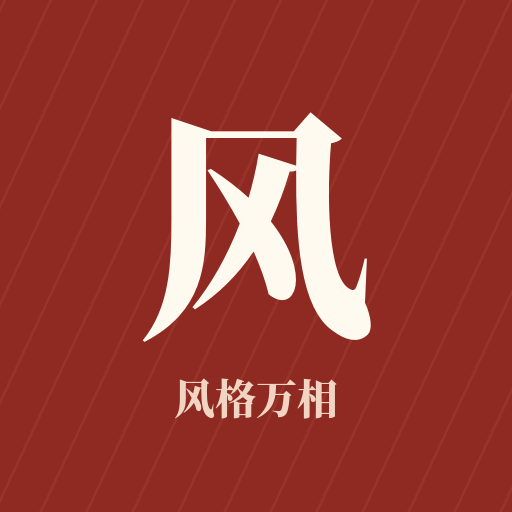
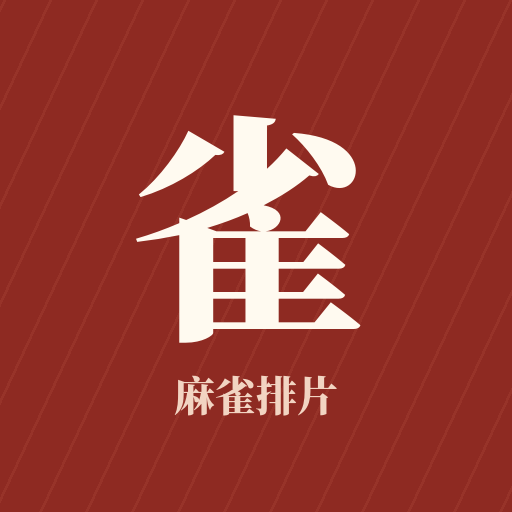
网站更名为麻雀映画&麻雀部落展映排片表，风格万相改为影展专题 (#6)
Claude-Session: https://claude.ai/code/session_01Jw57DzWJ1YLLYTgmvfAaBf

Changed region(s): [[0.2812, 0.2188, 0.75, 0.6875], [0.3438, 0.7188, 0.6562, 0.8125]]

diff --git a/index.html b/index.html
@@ -1,5 +1,5 @@
 <!doctype html><html lang="zh-CN"><head><meta charset=utf8><meta name=viewport content="width=device-width,initial-scale=1,viewport-fit=cover"><style>:root{color-scheme:light;box-sizing:border-box;padding-top:env(safe-area-inset-top,0px);padding-bottom:env(safe-area-inset-bottom,0px)}html{scroll-padding-top:env(safe-area-inset-top,0px)}body{margin:0;padding:0;font:14px -apple-system,BlinkMacSystemFont,sans-serif;background:#fff;color:#000}img{max-width:100%}[hidden]:not([hidden=until-found i]){display:none!important}</style>
-<title>风格万相影展</title>
+<title>麻雀映画&amp;麻雀部落展映排片表</title>
 <link rel="manifest" href="manifest.webmanifest">
 <link rel="icon" type="image/png" sizes="32x32" href="icons/favicon-32.png">
 <link rel="apple-touch-icon" href="icons/apple-touch-icon.png">
@@ -8,8 +8,8 @@
 <meta name="mobile-web-app-capable" content="yes">
 <meta name="apple-mobile-web-app-capable" content="yes">
 <meta name="apple-mobile-web-app-status-bar-style" content="default">
-<meta name="apple-mobile-web-app-title" content="风格万相">
-<meta name="description" content="风格万相中外经典影片展：影片资料、观影看点、导演介绍与展映排片。">
+<meta name="apple-mobile-web-app-title" content="麻雀排片">
+<meta name="description" content="麻雀映画 & 麻雀部落展映排片表：影展专题、艺术影院与院线放映的排片、片目与个人观影日程。">
 <link rel="preconnect" href="https://fonts.googleapis.com">
 <link rel="stylesheet" href="https://fonts.googleapis.com/css2?family=Noto+Serif+SC:wght@600;900&family=Noto+Sans+SC:wght@400;500;700&family=IBM+Plex+Mono:wght@400;500;600&display=swap">
 <style>
@@ -516,6 +516,39 @@ html.sheet-open,html.sheet-open body{overflow:hidden}
 .in-note{margin-top:12px;padding:14px;border-radius:12px;border:1px dashed var(--line)}
 .in-note b{font-size:14px}.in-note p{margin:4px 0 0;font-size:13px;color:var(--muted);line-height:1.6}
 .in-note.muted{border-style:solid;border-color:var(--line-soft)}
+
+/* ---- Sparrow schedule hub (claude/sparrow-schedule-hub) ---- */
+.brand-sparrow b{font-size:21px;letter-spacing:0;white-space:nowrap}
+.brand-sparrow b i{font-style:italic;font-weight:600;margin:0 .14em;color:var(--muted);font-family:var(--f-display)}
+.brand-sparrow small{letter-spacing:.08em}
+.prog-h{margin-top:4px}
+.prog-strip{display:grid;grid-template-columns:1fr;gap:10px;margin-bottom:14px}
+.prog-card{position:relative;display:grid;grid-template-columns:1fr;border-radius:14px;overflow:hidden;border:1px solid var(--line);background:var(--surface);text-align:left;min-width:0}
+.prog-card img{width:100%;max-width:100%;aspect-ratio:930/330;object-fit:cover;display:block}
+.pc-body{display:flex;flex-direction:column;gap:2px;padding:12px 14px;min-width:0}
+.pc-body small{font:500 10px var(--f-mono);letter-spacing:.1em;color:var(--accent)}
+.pc-body b{font:900 20px var(--f-display)}
+.pc-body span{font-size:12px;color:var(--muted)}
+.pc-go{position:absolute;right:12px;bottom:14px;font-size:12px;font-weight:600;color:var(--accent)}
+.prog-card:hover{border-color:var(--accent)}
+@media (min-width:900px){.prog-strip{grid-template-columns:repeat(auto-fill,minmax(360px,1fr))}}
+.prog-chips{margin-bottom:6px}
+.fd-prog{display:inline-flex;align-self:flex-start;font-size:11px;font-weight:600;padding:3px 9px;border-radius:99px;background:rgba(255,250,240,.92);color:#2b2117;margin-bottom:8px}
+.pg-cover{background:#1c1510;line-height:0}
+.pg-cover img{width:100%;max-width:100%;max-height:340px;object-fit:cover}
+.pg-head{padding:20px 0 4px}
+.pg-head small{font:500 10px var(--f-mono);letter-spacing:.2em;color:var(--accent)}
+.pg-head h1{font:900 36px/1.15 var(--f-display);margin:6px 0 4px}
+.pg-sub{margin:0;color:var(--muted);font-size:14px}
+.pg-blurb{font-size:15px;line-height:1.85;max-width:65ch;margin:0 0 16px}
+.pg-grid{display:grid;grid-template-columns:repeat(3,minmax(0,1fr));gap:14px 10px;margin-top:4px}
+.pg-film{display:flex;flex-direction:column;gap:4px;text-align:left;min-width:0}
+.pg-film img,.pg-ph{width:100%;max-width:100%;aspect-ratio:2/3;object-fit:cover;border-radius:6px;display:block;box-shadow:0 2px 8px rgba(0,0,0,.12)}
+.pg-ph{display:grid;place-items:center;color:#fffaf0;font:900 28px var(--f-display)}
+.pg-film b{font-size:13px;line-height:1.3;display:-webkit-box;-webkit-line-clamp:2;-webkit-box-orient:vertical;overflow:hidden}
+.pg-film small{font:11px var(--f-mono);color:var(--muted)}
+@media (min-width:640px){.pg-grid{grid-template-columns:repeat(4,minmax(0,1fr))}}
+@media (min-width:900px){.pg-grid{grid-template-columns:repeat(6,minmax(0,1fr))}.pg-head h1{font-size:48px}}
 </style>
 
 </head>
@@ -1427,6 +1460,11 @@ const FILMS = [
 const VENUES = [
   {id:"premiere", name:"百美汇影城", en:"PREMIERE", halls:[{id:"luxe", name:"LUXE4K激光巨幕厅"}]}
 ];
+/* 专题：影展、院线、艺术影院等。影片用 prog 字段归入专题，不写时默认风格万相 */
+const PROGRAMMES = [
+  {id:"style-kaleidoscope", name:"风格万相", sub:"中外经典影片展", en:"STYLE KALEIDOSCOPE", kind:"影展专题", period:"2026.10 – 2027.01", cover:"programmes/style-kaleidoscope.jpg",
+   blurb:"从伯格曼的公路回忆到塔可夫斯基的末日祈祷，从费穆的城墙到徐克的江湖，十七部作品横跨 1947 至 2025 年，排在同一块银幕上，恰好是一份关于“风格”的地图。"}
+];
 /* 排片：日期, 时间, 影片 id, 影院 id, 影厅 id（后两项不写时默认百美汇 LUXE4K激光巨幕厅） */
 const SHOWS = [
 ["10/30","19:30","wild-strawberries"],["10/31","12:40","dogville"],["10/31","16:00","sirat"],
@@ -1446,6 +1484,14 @@ let vfilt = "all";
 const editionOf = f => f.version||"";
 const editionHTML = f => f.version ? ` <small class="edition">${esc(f.version)}</small>` : "";
 const F = Object.fromEntries(FILMS.map(f=>[f.id,f]));
+const PG = Object.fromEntries(PROGRAMMES.map(p=>[p.id,p]));
+const progOf = f => PG[f.prog||"style-kaleidoscope"];
+const progShows = pid => SH.filter(x=>progOf(F[x.id]).id===pid);
+let pfilt = "all";
+const inProg = x => pfilt==="all" || progOf(F[x.id]).id===pfilt;
+const progChips = () => `<div class="filters prog-chips">${[["all","全部"],...PROGRAMMES.map(p=>[p.id,p.name])].map(([k,n])=>`<button class="fchip" data-pf="${k}" aria-pressed="${pfilt===k}">${esc(n)}</button>`).join("")}</div>`;
+const dateSpan = list => { if(!list.length) return ""; const ds=[...new Set(list.map(x=>x.d))]; return ds[0]+" – "+ds[ds.length-1]; };
+function progCardsHTML(){ return `<div class="prog-strip">${PROGRAMMES.map(p=>{const n=progShows(p.id).length,fn=new Set(progShows(p.id).map(x=>x.id)).size;return `<button class="prog-card" data-prog="${p.id}">${p.cover?`<img src="${p.cover}" alt="">`:""}<span class="pc-body"><small>${esc(p.kind)} · ${esc(p.period)}</small><b>${esc(p.name)}</b><span>${esc(p.sub)} · ${fn} 部 / ${n} 场</span></span><span class="pc-go">专题 ›</span></button>`}).join("")}</div>`; }
 const HASP = new Set(["bullets-over-broadway","spring-in-a-small-town","long-live-the-missus","leningrad-cowboys","where-is-the-friends-house","mon-oncle","sirat","green-green-grass","a-better-tomorrow","the-sacrifice","swordsman","turin-horse","wild-strawberries","blood-simple","dogville","faces-places","swordsman-2"]);
 const pst = id => HASP.has(id) ? "posters/"+id+".jpg" : null;
 const slateHTML = f => pst(f.id) ? `<span class="slate has" style="background:${REG[f.reg].c}"><img src="${pst(f.id)}" alt="${esc(f.cn)} 海报" loading="lazy"></span>` : `<span class="slate" style="background:${REG[f.reg].c}"><b>${esc(f.cn[0])}</b><span>${f.y}</span></span>`;
@@ -1470,7 +1516,7 @@ const days = [...new Set(SH.map(s=>s.d))];
 const chevron = '<svg class="chev" viewBox="0 0 24 24" fill="none" stroke="currentColor" stroke-width="2"><path d="m9 6 6 6-6 6"/></svg>';
 const topEl = document.getElementById("topbar"), main = document.getElementById("main");
 
-const brandBar = () => `<div class="row"><div class="brand"><b>风格万相</b><small>STYLE KALEIDOSCOPE · 中外经典影片展</small></div><span class="sp"></span><span class="credit"><small>由麻雀映画制作</small></span></div>`;
+const brandBar = () => `<div class="row"><div class="brand brand-sparrow"><b>麻雀映画<i>&amp;</i>麻雀部落</b><small>展映排片表 · SPARROW SCREENINGS</small></div></div>`;
 
 function ganttHTML(k, rowH, labW, compact, list){
   const S = toMin("12:00"), E = toMin("22:30"), W = Math.round((E-S)*k);
@@ -1504,7 +1550,7 @@ const SPAN = toMin("22:30")-toMin("12:00");
 function fitK(labW){ const app=document.querySelector(".app"); const w=(app?app.clientWidth:window.innerWidth) - 2*Math.max(16,0) - labW - 4; return w/SPAN; }
 
 function schedule(){
-  const list = SH.filter(x=>vfilt==="all"||x.v===vfilt);
+  const list = SH.filter(x=>(vfilt==="all"||x.v===vfilt)&&inProg(x));
   const kFit = fitK(64);
   const wide = kFit >= 1.5;
   const k = wide ? kFit : fitK(102);
@@ -1525,7 +1571,9 @@ function schedule(){
       <div class="halls">${v.halls.map(h=>{const hn=SH.filter(x=>x.v===v.id&&x.h===h.id).length;return `<div class="hall"><b>${esc(h.name)}</b><small>${esc(h.note||"")}${h.note?" · ":""}${hn} 场</small></div>`}).join("")}</div></div>`;
   }).join("");
   main.innerHTML = `<section class="view gut">
-    <h2 class="sec">排片表</h2><p class="sub">2026.10.30 – 11.08 · ${wide?"点击色块看影片":"点击排片图进入详细排片"}</p>
+    <h2 class="sec">展映排片表</h2><p class="sub">${dateSpan(list)} · ${list.length} 场 · ${wide?"点击色块看影片":"点击排片图进入详细排片"}</p>
+    <h3 class="blockh prog-h">专题 <small>PROGRAMMES</small></h3>${progCardsHTML()}
+    ${progChips()}
     ${vchips}
     <div class="legend">${Object.values(REG).map(r=>`<span><i style="background:${r.c}"></i>${r.n}</span>`).join("")}</div>
     ${gantt}
@@ -1536,7 +1584,7 @@ function schedule(){
 }
 
 function ganttFull(){
-  const list = SH.filter(x=>vfilt==="all"||x.v===vfilt);
+  const list = SH.filter(x=>(vfilt==="all"||x.v===vfilt)&&inProg(x));
   const k = Math.max(2, fitK(64));
   topEl.innerHTML = `<div class="row"><button class="back" data-back><svg viewBox="0 0 24 24" fill="none" stroke="currentColor" stroke-width="2.2"><path d="m15 6-6 6 6 6"/></svg>返回</button><span class="sp"></span><span class="pill">详细排片</span></div>`;
   main.innerHTML = `<section class="view gut full-g">
@@ -1555,9 +1603,9 @@ function flashIn(g){
 
 let filt="all";
 function films(){
-  const list = FILMS.filter(f=>filt==="all"||f.reg===filt);
-  main.innerHTML = `<section class="view gut"><h2 class="sec">片目</h2><p class="sub">${FILMS.length} 部影片 · 右侧为豆瓣评分</p>
-    <div class="filters">${[["all","全部"],...Object.entries(REG).map(([k,v])=>[k,v.n])].map(([k,n])=>`<button class="fchip" data-filt="${k}" aria-pressed="${filt===k}">${n}</button>`).join("")}</div>
+  const list = FILMS.filter(f=>(filt==="all"||f.reg===filt)&&(pfilt==="all"||progOf(f).id===pfilt));
+  main.innerHTML = `<section class="view gut"><h2 class="sec">片目</h2><p class="sub">${list.length} 部影片 · 右侧为豆瓣评分</p>
+    ${progChips()}<div class="filters">${[["all","全部"],...Object.entries(REG).map(([k,v])=>[k,v.n])].map(([k,n])=>`<button class="fchip" data-filt="${k}" aria-pressed="${filt===k}">${n}</button>`).join("")}</div>
     <div class="flist">${list.map(f=>`<button class="fcard" data-film="${f.id}">
       ${slateHTML(f)}
       <span class="info"><b>${esc(f.cn)}${editionHTML(f)}</b><span class="o">${esc(f.en||f.o)}</span><span class="d">${esc(f.dir)} · ${esc(f.c)}</span></span>
@@ -1581,6 +1629,7 @@ function detail(id){
     <div class="fd-hin gut">
       ${P?`<img class="fd-poster" src="${P}" alt="${esc(f.cn)} 海报">`:`<div class="fd-poster fd-ph"><b>${esc(f.cn[0])}</b></div>`}
       <div class="fd-title">
+        <button class="fd-prog" data-prog="${progOf(f).id}">${esc(progOf(f).kind)} · ${esc(progOf(f).name)} ›</button>
         <div class="fd-eyebrow"><span class="fd-reg">${REG[f.reg].n}</span>${f.y} · ${esc(f.c)}</div>
         <h1>${esc(f.cn)}</h1>
         <div class="fd-orig">${esc(f.en||f.o)}</div>${f.o&&f.o!==f.cn&&f.o!==(f.en||f.o)?`<div class="fd-native">原名 ${esc(f.o)}</div>`:""}
@@ -1611,6 +1660,21 @@ document.addEventListener("click",e=>{
   const x=e.target.closest("[data-expand]");if(x){const b=x.previousElementSibling;b.classList.toggle("clamp");x.textContent=b.classList.contains("clamp")?"展开全文":"收起";}
 });
 
+function progPage(pid){
+  const p=PG[pid]; if(!p){ go("schedule"); return; }
+  const shows=progShows(pid), fids=[...new Set(shows.map(x=>x.id))], films=FILMS.filter(f=>progOf(f).id===pid);
+  topEl.innerHTML = `<div class="row"><button class="back" data-back><svg viewBox="0 0 24 24" fill="none" stroke="currentColor" stroke-width="2.2"><path d="m15 6-6 6 6 6"/></svg>返回</button><span class="sp"></span><span class="pill">${esc(p.kind)}</span></div>`;
+  main.innerHTML = `<article class="pg">
+    ${p.cover?`<div class="pg-cover"><img src="${p.cover}" alt="${esc(p.name)} 主视觉"></div>`:""}
+    <div class="gut">
+      <header class="pg-head"><small>${esc(p.en||"")}</small><h1>${esc(p.name)}</h1><p class="pg-sub">${esc(p.sub)} · ${esc(p.period)}</p></header>
+      <div class="pstats pg-stats"><div><b>${films.length}</b><small>部影片</small></div><div><b>${shows.length}</b><small>场放映</small></div><div><b>${new Set(shows.map(x=>x.d)).size}</b><small>个放映日</small></div><div><b>${new Set(shows.map(x=>x.v+x.h)).size}</b><small>个影厅</small></div></div>
+      ${p.blurb?`<p class="pg-blurb">${esc(p.blurb)}</p>`:""}
+      <div class="plan-toolbar"><button class="primary-button" data-prog-sched="${pid}">查看专题排片</button><button class="secondary-button" data-prog-films="${pid}">专题片目</button></div>
+      <h3 class="blockh">放映影片 <small>${films.length} FILMS</small></h3>
+      <div class="pg-grid">${films.map(f=>{const first=SH.find(x=>x.id===f.id);return `<button class="pg-film" data-film="${f.id}">${pst(f.id)?`<img src="${pst(f.id)}" alt="" loading="lazy">`:`<span class="pg-ph" style="background:${REG[f.reg].c}">${esc(f.cn[0])}</span>`}<b>${esc(f.cn)}</b><small>${f.version?esc(f.version)+" · ":""}${first?first.d+" "+first.t:""}</small></button>`}).join("")}</div>
+    </div></article>`;
+}
 function about(){
   main.innerHTML = `<section class="view gut about"><h2 class="sec">关于影展</h2>
     <p class="sub">风格万相 · 中外经典影片展</p>
@@ -1675,7 +1739,7 @@ function installPage(){
       ["globe","用 Safari 打开本页","微信里请先点右上角「···」→「在默认浏览器中打开」"],
       ["share","点底部工具栏的「分享」按钮","方框加向上箭头的图标；iPad 在右上角"],
       ["plus","在菜单中选「添加到主屏幕」","没看到就向下滑，或点「编辑操作」把它加进列表"],
-      ["phone","点右上角「添加」","桌面会出现红色的「风格万相」图标"]]);
+      ["phone","点右上角「添加」","桌面会出现红色的「麻雀排片」图标"]]);
   }else if(tab==="android"){
     body=(installPrompt?'<button class="primary-button in-cta" data-install>一键添加到手机桌面</button><p class="in-or">或者按下面的步骤手动添加</p>':'')+stepsHTML([
       ["globe","用 Chrome 或手机自带浏览器打开本页","微信里请先点右上角「···」→「在浏览器打开」"],
@@ -1691,8 +1755,8 @@ function installPage(){
       '<div class="in-note muted"><b>关于小程序</b><p>网页不能直接加入微信的小程序列表。用「浮窗」是在微信里最接近小程序的打开方式。</p></div>';
   }
   main.innerHTML='<section class="view gut in-view"><div class="page-heading"><div><small>ADD TO HOME SCREEN</small><h2 class="sec">添加到手机</h2></div><button class="text-button" data-tab="my">返回我的</button></div>'+
-  (ENV.standalone?'<div class="in-done"><b>✓ 已经在 App 模式中打开</b><p>以后从桌面的「风格万相」图标进入即可。</p></div>':
-  '<div class="in-hero"><img src="icons/icon-192.png" alt="" width="64" height="64"><div><b>把「风格万相」放到手机桌面</b><p>全屏打开，没有地址栏，看排片就像用 App；个人排片也会一直保存在这台手机上。</p></div></div>')+
+  (ENV.standalone?'<div class="in-done"><b>✓ 已经在 App 模式中打开</b><p>以后从桌面的「麻雀排片」图标进入即可。</p></div>':
+  '<div class="in-hero"><img src="icons/icon-192.png" alt="" width="64" height="64"><div><b>把「麻雀排片」放到手机桌面</b><p>全屏打开，没有地址栏，看排片就像用 App；个人排片也会一直保存在这台手机上。</p></div></div>')+
   '<div class="in-tabs" role="tablist">'+T.map(([k,n])=>'<button role="tab" aria-selected="'+(k===tab)+'" data-itab="'+k+'">'+n+((k==="wechat"&&ENV.wechat)||(k==="ios"&&ENV.ios&&!ENV.wechat)||(k==="android"&&ENV.android&&!ENV.wechat)?'<i>当前</i>':'')+'</button>').join("")+'</div>'+
   '<div class="in-panel">'+body+'</div><p class="local-note">添加到桌面后，排片保存在桌面版自己的存储里，可能和浏览器里的不互通。需要搬过去时，用「导出与分享」里的链接或二维码导入。</p></section>';
 }
@@ -1703,7 +1767,7 @@ document.addEventListener("click",async e=>{
 function myPage(){const list=selectedRows(),st=planStats(list),next=list[0];
   main.innerHTML='<section class="view gut"><div class="my-hero"><small>MY FESTIVAL</small><h2>我的影展</h2><p>把想看的电影排进自己的日程，再分享给一起看的人。</p>'+statsHTML(st)+(next?'<button class="next-up" data-film="'+next.id+'"><span class="nu-label">第一场</span>'+thumbHTML(F[next.id])+'<span class="nu-body"><b>'+esc(F[next.id].cn)+'</b><small>'+next.d+' '+wk(next.d)+' · '+next.t+' · '+esc(placeOf(next))+'</small></span></button>':'')+'</div>'+
   '<div class="my-menu"><button class="my-entry" data-tab="plan"><span class="me-ic"><svg viewBox="0 0 24 24" fill="none" stroke="currentColor" stroke-width="1.8"><rect x="3" y="5" width="18" height="15" rx="2"/><path d="M3 10h18M8 3v4M16 3v4"/></svg></span><span><b>个人排片</b><small>按天查看日程 · 自动检查时间冲突</small></span><span class="me-go">›</span></button><button class="my-entry" data-tab="export"><span class="me-ic"><svg viewBox="0 0 24 24" fill="none" stroke="currentColor" stroke-width="1.8"><rect x="4" y="4" width="6" height="6"/><rect x="14" y="4" width="6" height="6"/><rect x="4" y="14" width="6" height="6"/><path d="M14 14h2v2h-2zM18 18h2v2h-2zM14 18h2M18 14h2"/></svg></span><span><b>导出与分享</b><small>带二维码的排片长图 · 分享链接 · 日历 · PDF</small></span><span class="me-go">›</span></button><button class="my-entry" data-tab="install"><span class="me-ic">'+IIC.phone+'</span><span><b>添加到手机</b><small>'+(ENV.standalone?'已在 App 模式中打开':'放到桌面像 App 一样看 · 微信里用浮窗')+'</small></span><span class="me-go">›</span></button></div>'+
-  '<p class="local-note">排片保存在当前浏览器。换设备时，用分享链接或二维码带走日程。</p><details class="about-fold"><summary>关于风格万相</summary><p>中外经典影片展 · 2026.10—2027.01</p><p>由麻雀映画制作。当前场次、影片与影厅以排片页面为准。</p></details></section>';}
+  '<p class="local-note">排片保存在当前浏览器。换设备时，用分享链接或二维码带走日程。</p><details class="about-fold"><summary>关于麻雀映画 &amp; 麻雀部落</summary><p>麻雀映画与麻雀部落的展映排片表，汇集影展专题、艺术影院与院线放映场次。</p><p>当前专题：风格万相 · 中外经典影片展（2026.10—2027.01）。场次、影片与影厅以排片页面为准。</p></details></section>';}
 function planPage(){const list=selectedRows(),st=planStats(list);
   main.innerHTML='<section class="view gut"><div class="page-heading"><div><small>MY PROGRAMME</small><h2 class="sec">个人排片</h2></div><button class="text-button" data-tab="my">返回我的</button></div>'+
   (list.length?statsHTML(st)+'<div class="plan-toolbar"><button class="primary-button" data-tab="export">导出与分享</button><button class="secondary-button" data-tab="schedule">继续选片</button><button class="text-button" data-action="clear-plan">清空排片</button></div>'+(st.clash?'<div class="conflict" role="status"><b>有 '+st.clash+' 组场次时间重叠</b><p>重叠处已在日程中标红，移出其中一场即可解决。</p></div>':'')+'<div class="plan-days">'+planRowsHTML(list,true)+'</div>'
@@ -1725,7 +1789,7 @@ function exportPage(shared){let list;
   (isShared?'<div class="shared-banner"><b>'+st.n+' 场电影 · '+st.days+' 天</b><p>这是一份别人分享给你的观影日程。加入后会和你自己的排片合并。</p><button class="primary-button" data-action="import-plan">全部加入我的排片</button></div>':'')+
   '<div class="share-panel">'+(qr?'<div class="qr-box">'+qr+'</div>':'')+'<div class="share-body"><b>扫码打开这份排片</b><small>朋友用手机扫码或点开链接即可查看，无需登录，可一键加入自己的排片。</small><div class="link-row"><input id="share-url" readonly value="'+esc(shareURL(list))+'" aria-label="分享链接"><button class="secondary-button" data-action="copy-link">复制链接</button></div>'+(canShare?'<button class="text-button share-sys" data-action="system-share">'+IC.share+' 通过手机分享…</button>':'')+'</div></div>'+
   '<div class="export-grid">'+tile('png',IC.img,'排片长图','含海报与二维码 · PNG','main')+tile('calendar',IC.cal,'导入日历','.ics · 手机/电脑日历')+tile('print',IC.pdf,'打印 / PDF','A4 排版')+'</div>'+
-  '<h3 class="blockh">预览 <small>PREVIEW</small></h3><div class="share-paper"><div class="paper-band"><div><b>风格万相</b><span>STYLE KALEIDOSCOPE · 中外经典影片展</span></div><em>'+(isShared?'观影日程':'我的观影日程')+'</em></div><div class="paper-stats"><span><b>'+st.n+'</b>场</span><span><b>'+st.days+'</b>天</span><span><b>'+st.hm+'</b>银幕时长</span></div><div class="plan-days">'+planRowsHTML(list,false)+'</div><footer>'+(qr?'<div class="paper-qr">'+qr+'</div>':'')+'<div><b>扫码查看并加入这份排片</b><span>中外经典影片展 · 2026.10—2027.01</span><span>由麻雀映画制作</span></div></footer></div>'+
+  '<h3 class="blockh">预览 <small>PREVIEW</small></h3><div class="share-paper"><div class="paper-band"><div><b>麻雀映画 &amp; 麻雀部落</b><span>展映排片表 · SPARROW SCREENINGS</span></div><em>'+(isShared?'观影日程':'我的观影日程')+'</em></div><div class="paper-stats"><span><b>'+st.n+'</b>场</span><span><b>'+st.days+'</b>天</span><span><b>'+st.hm+'</b>银幕时长</span></div><div class="plan-days">'+planRowsHTML(list,false)+'</div><footer>'+(qr?'<div class="paper-qr">'+qr+'</div>':'')+'<div><b>扫码查看并加入这份排片</b><span>中外经典影片展 · 2026.10—2027.01</span><span>由麻雀映画制作</span></div></footer></div>'+
   '<p class="local-note">分享链接与二维码保存的是此刻的场次选择，之后修改个人排片不会改变已发出的内容。</p></section>';}
 function downloadBlob(blob,filename){const url=URL.createObjectURL(blob),a=document.createElement('a');a.href=url;a.download=filename;document.body.appendChild(a);a.click();a.remove();setTimeout(()=>URL.revokeObjectURL(url),60000);}
 function wrapLines(ctx,text,maxWidth){const out=[];let line='';for(const ch of text){if(ctx.measureText(line+ch).width>maxWidth&&line){out.push(line);line=ch;}else line+=ch;}if(line)out.push(line);return out;}
@@ -1734,7 +1798,7 @@ function loadImg(src){return new Promise(r=>{if(!src)return r(null);const im=new
 function rr(c,x,y,w,h,r){c.beginPath();c.moveTo(x+r,y);c.arcTo(x+w,y,x+w,y+h,r);c.arcTo(x+w,y+h,x,y+h,r);c.arcTo(x,y+h,x,y,r);c.arcTo(x,y,x+w,y,r);c.closePath();}
 let pngBusy=false;
 async function exportPNG(){const list=currentExport;if(!list.length||pngBusy)return;pngBusy=true;toast('正在生成排片长图…');
-  try{try{await Promise.all(['900 64px "Noto Serif SC"','700 30px "Noto Sans SC"','500 24px "IBM Plex Mono"'].map(f=>document.fonts.load(f,'风格万相0123')));}catch(e){}
+  try{try{await Promise.all(['900 64px "Noto Serif SC"','700 30px "Noto Sans SC"','500 24px "IBM Plex Mono"'].map(f=>document.fonts.load(f,'麻雀映画部落排片0123')));}catch(e){}
   const SERIF='"Noto Serif SC","Songti SC",serif',SANS='"Noto Sans SC","PingFang SC","Microsoft YaHei",sans-serif',MONO='"IBM Plex Mono",Menlo,monospace';
   const W=1080,P=64,ROW=196,GAP=52,DAYH=104,HEAD=360,STATS=150,FOOT=420;
   const groups=byDay(list),imgs={};await Promise.all([...new Set(list.map(s=>s.id))].map(async id=>{imgs[id]=await loadImg(pst(id));}));
@@ -1743,8 +1807,8 @@ async function exportPNG(){const list=currentExport;if(!list.length||pngBusy)ret
   c.fillStyle='#efe6d4';c.fillRect(0,0,W,H);
   // header band
   c.fillStyle='#8e2a22';c.fillRect(0,0,W,HEAD);c.fillStyle='rgba(255,255,255,.06)';for(let x=-HEAD;x<W;x+=46){c.beginPath();c.moveTo(x,HEAD);c.lineTo(x+HEAD*.47,0);c.lineTo(x+HEAD*.47+2,0);c.lineTo(x+2,HEAD);c.fill();}
-  c.fillStyle='#fffaf0';c.font='italic 900 104px '+SERIF;c.fillText('风格万相',P,150);
-  c.font='500 22px '+MONO;c.globalAlpha=.85;c.fillText('STYLE KALEIDOSCOPE · 中外经典影片展 2026.10—2027.01',P,200);c.globalAlpha=1;
+  c.fillStyle='#fffaf0';c.font='italic 900 76px '+SERIF;c.fillText('麻雀映画 & 麻雀部落',P,140);
+  c.font='500 22px '+MONO;c.globalAlpha=.85;c.fillText('展映排片表 · SPARROW SCREENINGS',P,196);c.globalAlpha=1;
   c.fillStyle='#fffaf0';c.fillRect(P,240,56,3);c.font='700 46px '+SANS;c.fillText(location.hash.startsWith('#share=')?'观影日程':'我的观影日程',P,310);
   // stats
   const st=planStats(list);let sx=P;[[st.n,'场放映'],[st.days,'天行程'],[st.hm,'银幕时长']].forEach(([v,l])=>{c.fillStyle='#2b2117';c.font='600 56px '+MONO;c.fillText(String(v),sx,HEAD+92);const w=c.measureText(String(v)).width;c.fillStyle='#7a6a55';c.font='400 24px '+SANS;c.fillText(l,sx+w+10,HEAD+92);sx+=Math.max(250,w+150);});
@@ -1773,10 +1837,10 @@ async function exportPNG(){const list=currentExport;if(!list.length||pngBusy)ret
   const m=qrMatrix(shareURLShort(list)),qs=264,qx=P+36,qy=fy+36;
   if(m){c.fillStyle='#fff';rr(c,qx,qy,qs,qs,10);c.fill();const n=m.length,cell=(qs-24)/n;c.fillStyle='#1d1712';for(let r=0;r<n;r++)for(let k=0;k<n;k++)if(m[r][k])c.fillRect(Math.floor(qx+12+k*cell),Math.floor(qy+12+r*cell),Math.ceil(cell),Math.ceil(cell));}
   const fx=m?qx+qs+40:P+36;c.fillStyle='#fffaf0';c.font='700 38px '+SANS;c.fillText('扫码查看这份排片',fx,fy+100);c.font='400 24px '+SANS;c.globalAlpha=.8;wrapCanvas(c,'打开后可一键加入你自己的排片',fx,fy+150,W-P-36-fx,34);c.globalAlpha=.6;c.font='400 20px '+MONO;c.fillText(location.host+location.pathname,fx,fy+226);c.globalAlpha=1;
-  c.fillStyle='#e0b9a6';c.font='italic 900 30px '+SERIF;c.fillText('风格万相',fx,fy+280);c.fillStyle='#fffaf0';c.globalAlpha=.7;c.font='400 20px '+SANS;c.fillText('由麻雀映画制作',fx+c.measureText('风格万相').width+80,fy+278);c.globalAlpha=1;
+  c.fillStyle='#e0b9a6';c.font='italic 900 30px '+SERIF;c.fillText('麻雀映画 & 麻雀部落',fx,fy+280);c.fillStyle='#fffaf0';c.globalAlpha=.7;c.font='400 20px '+SANS;c.fillText('展映排片表',fx+c.measureText('麻雀映画 & 麻雀部落').width+70,fy+278);c.globalAlpha=1;
   const blob=await new Promise(r=>cv.toBlob(r,'image/png'));if(!blob){toast('图片生成失败，请使用打印导出');return;}
   showImageSheet(blob);}finally{pngBusy=false;}}
-function showImageSheet(blob){const url=URL.createObjectURL(blob),file=new File([blob],'风格万相_我的排片.png',{type:'image/png'});const canFile=!!(navigator.canShare&&navigator.canShare({files:[file]}));
+function showImageSheet(blob){const url=URL.createObjectURL(blob),file=new File([blob],'麻雀排片_我的观影日程.png',{type:'image/png'});const canFile=!!(navigator.canShare&&navigator.canShare({files:[file]}));
   let el=document.getElementById('img-sheet');if(el)el.remove();el=document.createElement('div');el.id='img-sheet';el.className='img-sheet';el.setAttribute('role','dialog');el.setAttribute('aria-modal','true');el.setAttribute('aria-label','排片长图');
   el.innerHTML='<div class="is-panel"><div class="is-grab" aria-hidden="true"><i></i></div><div class="is-head"><b>排片长图已生成</b><button class="is-close" aria-label="关闭"><svg viewBox="0 0 24 24" fill="none" stroke="currentColor" stroke-width="2.4"><path d="M6 6l12 12M18 6 6 18"/></svg><span>关闭</span></button></div><div class="is-img"><img src="'+url+'" alt="排片长图预览"></div><p class="is-tip">手机上长按图片可保存到相册 · 下滑或点「关闭」退出</p><div class="is-actions">'+(canFile?'<button class="primary-button" data-is="share">分享图片</button>':'')+'<button class="'+(canFile?'secondary':'primary')+'-button" data-is="save">保存图片</button></div></div>';
   document.body.appendChild(el);document.documentElement.classList.add('sheet-open');
@@ -1785,23 +1849,24 @@ function showImageSheet(blob){const url=URL.createObjectURL(blob),file=new File(
   const onKey=e=>{if(e.key==='Escape')close();};const onPop=()=>close(true);
   document.addEventListener('keydown',onKey);try{history.pushState({sheet:1},'');window.addEventListener('popstate',onPop);}catch(e){}
   el.querySelector('.is-close').focus({preventScroll:true});
-  el.addEventListener('click',async e=>{if(e.target===el||e.target.closest('.is-close'))return close();const b=e.target.closest('[data-is]');if(!b)return;if(b.dataset.is==='save'){downloadBlob(blob,'风格万相_我的排片.png');toast('图片已保存');}else{try{await navigator.share({files:[file],title:'风格万相 · 我的观影日程'});}catch(err){}}});
+  el.addEventListener('click',async e=>{if(e.target===el||e.target.closest('.is-close'))return close();const b=e.target.closest('[data-is]');if(!b)return;if(b.dataset.is==='save'){downloadBlob(blob,'麻雀排片_我的观影日程.png');toast('图片已保存');}else{try{await navigator.share({files:[file],title:'麻雀排片 · 我的观影日程'});}catch(err){}}});
   let y0=null,dy=0,fromHead=false;
   panel.addEventListener('touchstart',e=>{fromHead=!!e.target.closest('.is-grab,.is-head');if(fromHead||scroller.scrollTop<=0){y0=e.touches[0].clientY;dy=0;}else y0=null;},{passive:true});
   panel.addEventListener('touchmove',e=>{if(y0==null)return;dy=e.touches[0].clientY-y0;if(dy<=0){panel.style.transform='';return;}if(!fromHead&&scroller.scrollTop>0){y0=null;panel.style.transform='';return;}panel.style.transition='none';panel.style.transform='translateY('+dy+'px)';if(fromHead||dy>8)e.preventDefault();},{passive:false});
   panel.addEventListener('touchend',()=>{if(y0==null)return;panel.style.transition='';if(dy>110)close();else panel.style.transform='';y0=null;dy=0;});
 }
-function exportCalendar(){if(!currentExport.length)return;const stamp=d=>d.getFullYear()+String(d.getMonth()+1).padStart(2,'0')+String(d.getDate()).padStart(2,'0')+'T'+String(d.getHours()).padStart(2,'0')+String(d.getMinutes()).padStart(2,'0')+'00';const escapeIcs=s=>String(s).replace(/\\/g,'\\\\').replace(/\n/g,'\\n').replace(/,/g,'\\,').replace(/;/g,'\\;');let lines=['BEGIN:VCALENDAR','VERSION:2.0','PRODID:-//SparrowCinema//Style Kaleidoscope//ZH','CALSCALE:GREGORIAN','X-WR-CALNAME:风格万相·我的排片','X-WR-TIMEZONE:Asia/Shanghai','BEGIN:VTIMEZONE','TZID:Asia/Shanghai','BEGIN:STANDARD','DTSTART:19700101T000000','TZOFFSETFROM:+0800','TZOFFSETTO:+0800','TZNAME:CST','END:STANDARD','END:VTIMEZONE'];for(const s of currentExport){const start=showDate(s),end=new Date(start.getTime()+F[s.id].min*60000);lines.push('BEGIN:VEVENT','UID:'+encodeURIComponent(keyOf(s))+'@style-kaleidoscope','DTSTAMP:'+new Date().toISOString().replace(/[-:]/g,'').replace(/\.\d+Z/,'Z'),'DTSTART;TZID=Asia/Shanghai:'+stamp(start),'DTEND;TZID=Asia/Shanghai:'+stamp(end),'SUMMARY:'+escapeIcs(F[s.id].cn+' · '+editionOf(F[s.id])),'LOCATION:'+escapeIcs(VN[s.v].name+' · '+hallOf(s).name),'DESCRIPTION:'+escapeIcs('风格万相中外经典影片展\n影片片长 '+F[s.id].min+' 分钟'),'END:VEVENT');}lines.push('END:VCALENDAR');downloadBlob(new Blob([lines.join('\r\n')+'\r\n'],{type:'text/calendar;charset=utf-8'}),'风格万相_我的排片.ics');toast('日历文件已生成');}
-document.addEventListener('click',async e=>{const button=e.target.closest('[data-plan],[data-action]');if(!button)return;if(button.dataset.plan){const k=button.dataset.plan;if(!validKeys.has(k))return;if(picked.has(k))picked.delete(k);else picked.add(k);saveSelection();const scroll=window.scrollY;route();window.scrollTo(0,scroll);return;}switch(button.dataset.action){case 'clear-plan':if(confirm('清空当前浏览器保存的个人排片？')){picked.clear();saveSelection();route();}break;case 'png':exportPNG();break;case 'calendar':exportCalendar();break;case 'print':window.print();break;case 'copy-link':{const input=document.getElementById('share-url');if(!input)break;try{await navigator.clipboard.writeText(input.value);toast('分享链接已复制');}catch{input.focus();input.select();toast('请复制已选中的分享链接');}break;}case 'system-share':{try{await navigator.share({title:'风格万相 · 观影日程',text:'我的风格万相观影日程（'+currentExport.length+' 场）',url:shareURL(currentExport)});}catch(err){}break;}case 'import-plan':currentExport.forEach(s=>picked.add(keyOf(s)));saveSelection();go('plan');break;}});
+function exportCalendar(){if(!currentExport.length)return;const stamp=d=>d.getFullYear()+String(d.getMonth()+1).padStart(2,'0')+String(d.getDate()).padStart(2,'0')+'T'+String(d.getHours()).padStart(2,'0')+String(d.getMinutes()).padStart(2,'0')+'00';const escapeIcs=s=>String(s).replace(/\\/g,'\\\\').replace(/\n/g,'\\n').replace(/,/g,'\\,').replace(/;/g,'\\;');let lines=['BEGIN:VCALENDAR','VERSION:2.0','PRODID:-//SparrowCinema//Style Kaleidoscope//ZH','CALSCALE:GREGORIAN','X-WR-CALNAME:麻雀排片·我的观影日程','X-WR-TIMEZONE:Asia/Shanghai','BEGIN:VTIMEZONE','TZID:Asia/Shanghai','BEGIN:STANDARD','DTSTART:19700101T000000','TZOFFSETFROM:+0800','TZOFFSETTO:+0800','TZNAME:CST','END:STANDARD','END:VTIMEZONE'];for(const s of currentExport){const start=showDate(s),end=new Date(start.getTime()+F[s.id].min*60000);lines.push('BEGIN:VEVENT','UID:'+encodeURIComponent(keyOf(s))+'@style-kaleidoscope','DTSTAMP:'+new Date().toISOString().replace(/[-:]/g,'').replace(/\.\d+Z/,'Z'),'DTSTART;TZID=Asia/Shanghai:'+stamp(start),'DTEND;TZID=Asia/Shanghai:'+stamp(end),'SUMMARY:'+escapeIcs(F[s.id].cn+' · '+editionOf(F[s.id])),'LOCATION:'+escapeIcs(VN[s.v].name+' · '+hallOf(s).name),'DESCRIPTION:'+escapeIcs(progOf(F[s.id]).name+' · '+progOf(F[s.id]).sub+'\n影片片长 '+F[s.id].min+' 分钟\n麻雀映画 & 麻雀部落展映排片表'),'END:VEVENT');}lines.push('END:VCALENDAR');downloadBlob(new Blob([lines.join('\r\n')+'\r\n'],{type:'text/calendar;charset=utf-8'}),'麻雀排片_我的观影日程.ics');toast('日历文件已生成');}
+document.addEventListener('click',async e=>{const button=e.target.closest('[data-plan],[data-action]');if(!button)return;if(button.dataset.plan){const k=button.dataset.plan;if(!validKeys.has(k))return;if(picked.has(k))picked.delete(k);else picked.add(k);saveSelection();const scroll=window.scrollY;route();window.scrollTo(0,scroll);return;}switch(button.dataset.action){case 'clear-plan':if(confirm('清空当前浏览器保存的个人排片？')){picked.clear();saveSelection();route();}break;case 'png':exportPNG();break;case 'calendar':exportCalendar();break;case 'print':window.print();break;case 'copy-link':{const input=document.getElementById('share-url');if(!input)break;try{await navigator.clipboard.writeText(input.value);toast('分享链接已复制');}catch{input.focus();input.select();toast('请复制已选中的分享链接');}break;}case 'system-share':{try{await navigator.share({title:'麻雀排片 · 观影日程',text:'我的观影日程（'+currentExport.length+' 场）',url:shareURL(currentExport)});}catch(err){}break;}case 'import-plan':currentExport.forEach(s=>picked.add(keyOf(s)));saveSelection();go('plan');break;}});
 
 let pendingFlash=null, lastList="schedule";
 function go(h){ location.hash = h; }
 function route(){
   const h = location.hash.slice(1) || "schedule";
-  const tab = ["plan","export","about","install"].includes(h)||h.startsWith("share=") ? "my" : (h.startsWith("film-")||h==="gantt") ? null : h;
+  const tab = ["plan","export","about","install"].includes(h)||h.startsWith("share=") ? "my" : (h.startsWith("film-")||h.startsWith("prog-")||h==="gantt") ? null : h;
   document.querySelectorAll(".tab").forEach(t=>t.setAttribute("aria-current", t.dataset.tab===(tab||lastList)?"page":"false"));
   if(tab){ lastList = tab; topEl.innerHTML = brandBar(); }
   if(h.startsWith("film-")) detail(h.slice(5));
+  else if(h.startsWith("prog-")) progPage(h.slice(5));
   else if(h==="films") films();
   else if(h==="my"||h==="about") myPage();
   else if(h==="plan") planPage();
@@ -1813,13 +1878,17 @@ function route(){
   if(!pendingFlash) window.scrollTo(0,0);
 }
 document.addEventListener("click",e=>{
-  const t=e.target.closest("[data-film],[data-tab],[data-filt],[data-vf],[data-back],[data-jump],[data-open-gantt]"); if(!t) return;
+  const t=e.target.closest("[data-film],[data-tab],[data-filt],[data-vf],[data-pf],[data-prog],[data-prog-sched],[data-prog-films],[data-back],[data-jump],[data-open-gantt]"); if(!t) return;
   if(t.dataset.film) go("film-"+t.dataset.film);
   else if(t.dataset.tab) go(t.dataset.tab);
   else if(t.dataset.filt){ filt=t.dataset.filt; films(); }
   else if(t.dataset.vf){ vfilt=t.dataset.vf; schedule(); }
+  else if(t.dataset.pf){ pfilt=t.dataset.pf; location.hash==="#films"?films():schedule(); }
+  else if(t.dataset.prog) go("prog-"+t.dataset.prog);
+  else if(t.dataset.progSched){ pfilt=t.dataset.progSched; go("schedule"); }
+  else if(t.dataset.progFilms){ pfilt=t.dataset.progFilms; go("films"); }
   else if(t.hasAttribute("data-back")) go(lastList);
-  else if(t.dataset.jump){ pendingFlash=t.dataset.jump; go(fitK(64)>=1.5?"schedule":"gantt"); }
+  else if(t.dataset.jump){ pfilt="all"; vfilt="all"; pendingFlash=t.dataset.jump; go(fitK(64)>=1.5?"schedule":"gantt"); }
   else if(t.hasAttribute("data-open-gantt")) go("gantt");
 });
 window.addEventListener("hashchange",route);

diff --git a/sw.js b/sw.js
@@ -1,5 +1,5 @@
-/* 风格万相 service worker：页面走“网络优先”（保证排片总是最新），海报、图标等静态资源走“缓存优先”，离线时也能打开上次看过的内容。 */
-const CACHE = "sk-v1";
+/* 麻雀排片 service worker：页面走“网络优先”（保证排片总是最新），海报、图标等静态资源走“缓存优先”，离线时也能打开上次看过的内容。 */
+const CACHE = "sk-v2";
 const CORE = ["./", "./index.html", "./manifest.webmanifest", "./vendor/qrcode.js", "./icons/icon-192.png", "./icons/apple-touch-icon.png"];
 
 self.addEventListener("install", e => {

diff --git a/CONTRIBUTING.md b/CONTRIBUTING.md
@@ -14,10 +14,12 @@
 
 ## 项目结构与现状
 
-- 网站：https://sparrowcinema.github.io/style-kaleidoscope/
+- 网站：https://sparrowcinema.github.io/style-kaleidoscope/（仓库名沿用 style-kaleidoscope，未改动以免旧链接失效）
 - 单页静态应用：index.html，内含页面样式、影片和排片数据、路由与交互脚本。
-- 海报目录：posters/；发布配置：.github/workflows/pages.yml。
-- 主要路由：排片、片目、影片详情、#my（我的）、#plan（个人排片）、#export（导出）、#share=…（分享）。
+- 海报目录：posters/；发布配置：.github/workflows/pages.yml；PWA：manifest.webmanifest、sw.js（替换同名静态文件时需升级缓存名）、icons/。
+- 网站标题：麻雀映画&麻雀部落展映排片表。风格万相是其中一个影展专题，后续会加入院线电影、艺术影院等排片。
+- 专题数据：PROGRAMMES 数组（id、名称、类型、时段、封面、简介）；影片用 prog 字段归属专题，未填写时默认 style-kaleidoscope。专题封面放在 programmes/。
+- 主要路由：排片、片目、影片详情、#prog-<专题id>（专题页）、#my（我的）、#plan（个人排片）、#export（导出）、#share=…（分享）、#install（添加到手机）。
 - 个人排片保存在浏览器 localStorage，键为 style-kaleidoscope-plan-v1；没有账号或跨设备自动同步。
 - 分享链接编码场次键；场次键由日期、时间、影院、影厅构成。修改这些字段时必须考虑已有收藏和链接兼容性。
 - 导出包含 PNG、ICS 日历及打印保存 PDF；影院和影厅应保持完整显示。
